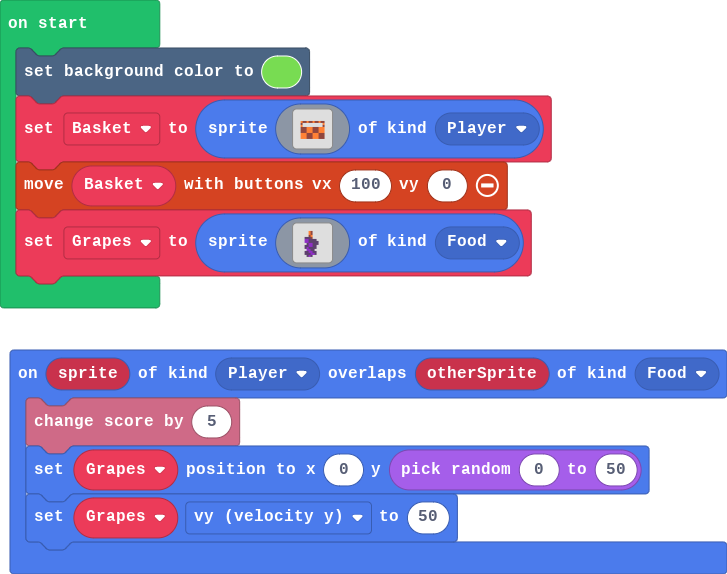
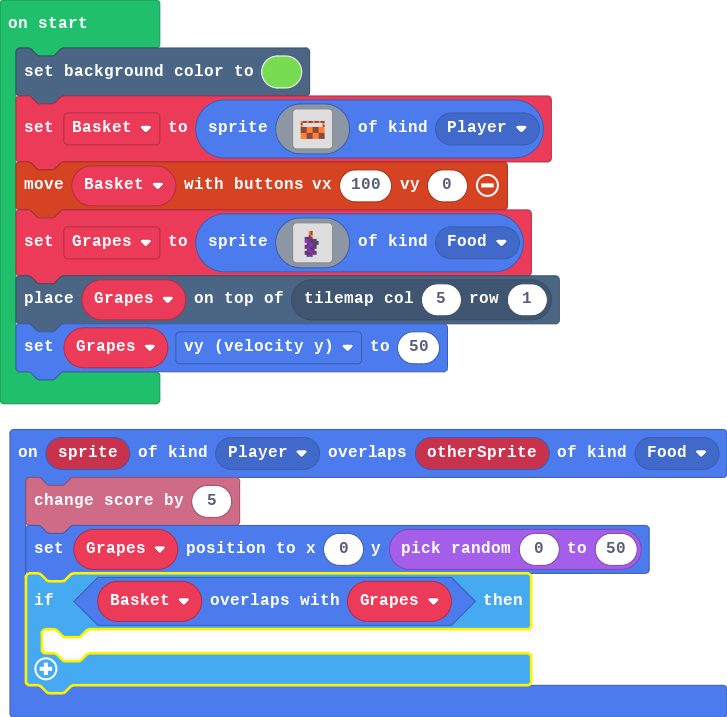
Update main.blocks, main.ts

diff --git a/main.ts b/main.ts
@@ -1,10 +1,14 @@
 sprites.onOverlap(SpriteKind.Player, SpriteKind.Food, function (sprite, otherSprite) {
     info.changeScoreBy(5)
     Grapes.setPosition(0, randint(0, 50))
+    if (Basket.overlapsWith(Grapes)) {
+    	
+    }
 })
 let Grapes: Sprite = null
+let Basket: Sprite = null
 scene.setBackgroundColor(7)
-let Basket = sprites.create(img`
+Basket = sprites.create(img`
     . . . . . . . . . . . . . . . . 
     . . . . . . . . . . . . . . . . 
     . . . . . . . . . . . . . . . . 
@@ -41,4 +45,5 @@ Grapes = sprites.create(img`
     . . . . . c a c . . . . . . . . 
     . . . . . . . . . . . . . . . . 
     `, SpriteKind.Food)
+tiles.placeOnTile(Grapes, tiles.getTileLocation(5, 1))
 Grapes.vy = 50
